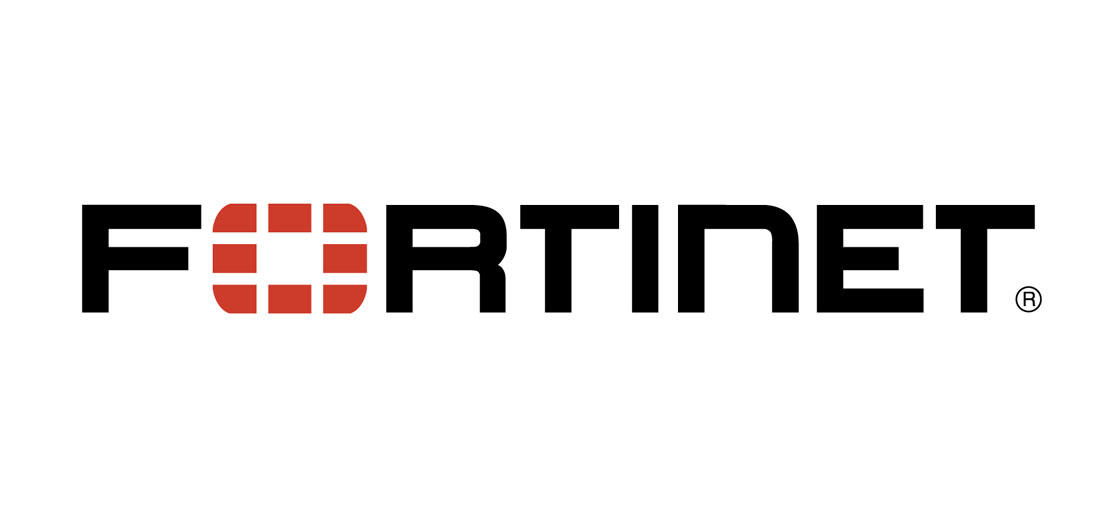
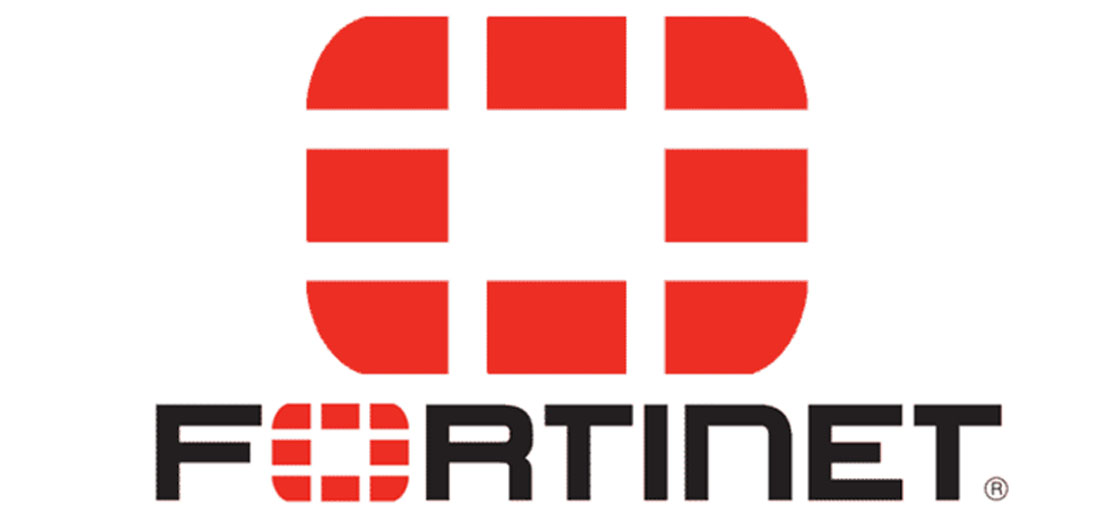
Add files via upload

diff --git a/index.html b/index.html
@@ -28,7 +28,6 @@
     <!-- SECTION GRISE  -->
     <div class="section section-grise1">
         <!-- <div class="separateur"></div> -->
-        
         <p>
             Vous avez besoin de l'aide d'un professionnel de l'informatique expérimenté pour une expertise ? 
             Ou simplement pour un avis ? <br> N'hésitez pas à me contacter.
@@ -37,7 +36,6 @@
     <!-- SECTION BLANCHE Pourquoi engager un consultant ?< -->
     <div class="section" >
         <div class="pourquoi-consultant">
-           
             <h2>Pourquoi engager un consultant ?</h2>
             <p>Si choisir un consultant indépendant est une bonne affaire, c’est surtout grâce aux grandes qualités que possède ce prestataire.</p>
         </div>
@@ -63,7 +61,6 @@
                 <td>
                     <h3>Des tarifs négociables</h3>
                     <p>
-
                         Le recours à un consultant indépendant peut s'avérer très coûteux pour de nombreuses personnes. Le client et le consultant peuvent, en effet, facilement se mettre d'accord sur le tarif de la prestation. Par conséquent, Il n’existe donc pas de tarif établi et non négociable.
                         <br>
                         De plus, il s'agit d'un contrat dont la durée est déterminée. Par conséquent, il doit exister quelque chose de plus lucratif qu'un accord avec un cabinet pour une période de temps infinie.
@@ -199,6 +196,19 @@
                         <p>
                             Vous voulez sécuriser et améliorer la performance de votre réseau informatique ? <br>
                             Je peux configurer vos commutateurs (Switch) et routeurs CISCO selon vos besoins spécifiques en matière de connectivité réseau et de sécurité.  Je peux configurer des fonctionnalités telles que la gestion de VLAN, la gestion de la qualité de service (QoS), la mise en place de règles de filtrage de trafic et la configuration de protocoles de routage tels que OSPF et BGP.
+                        </p>
+                    </td>
+                </tr>
+                <tr><td><img class="img-serivce-tech" src="fortinet.jpg" alt=""></td></tr>
+                <tr>
+                    <td class="service-tech-col">
+                        <div style="border-left: 4px solid rgb(14, 37, 14);  " class="line-verticale"></div>
+                    </td>
+                    <td>
+                        <h3>Sécurité</h3>
+                        <p>
+                            Si vous souhaitez sécuriser votre réseau à l'aide d'un pare-feu Fortigate ? <br>
+                            Je peux vous aider en mettant en place des règles de sécurité, le SDWAN, des liaisonss VPNs SSL et IPSec, ainsi qu'en gérant des fonctionnalités avancées telles que la gestion des utilisateurs et des politiques de sécurité, la détection et la prévention des menaces, l'analyse de trafic réseau, et les configurations de haute disponibilité.
                         </p>
                     </td>
                 </tr>
